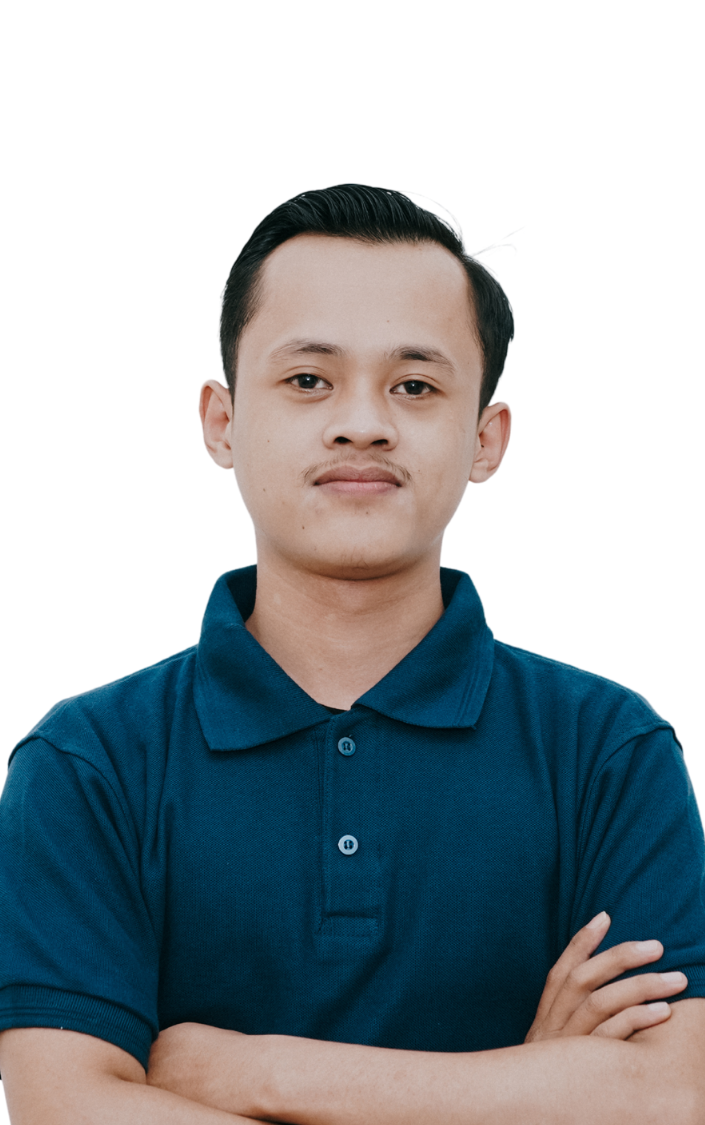
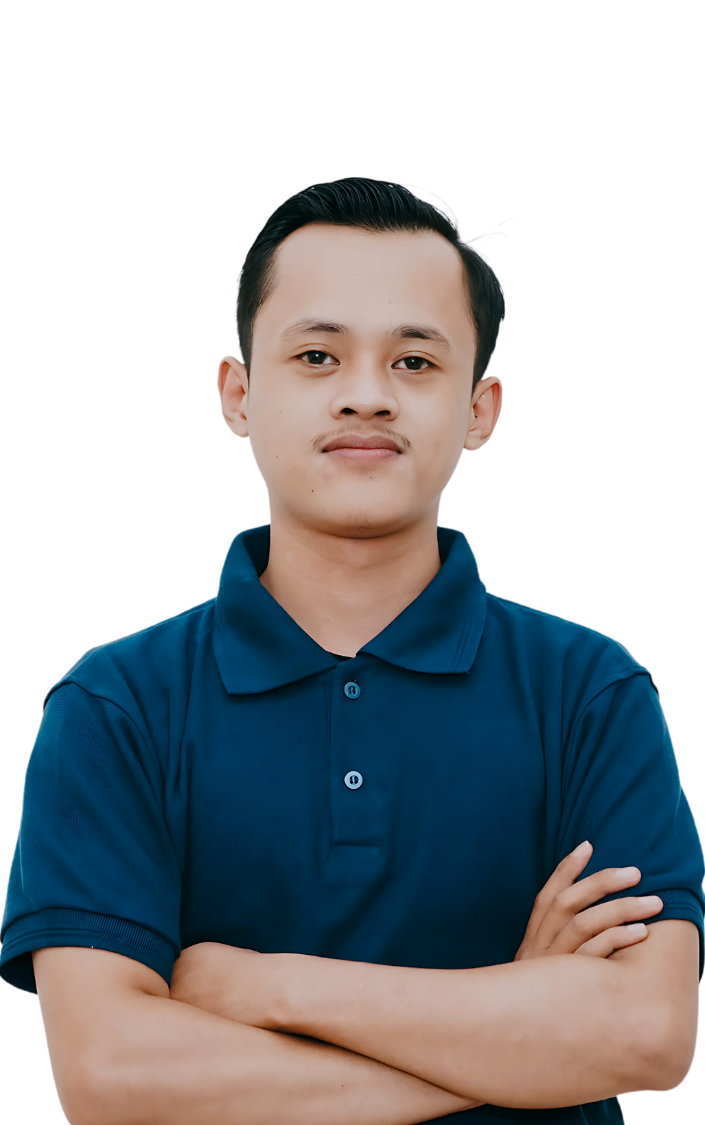
Fix agent photo loading for Difa' Fathir Aditya and add new agent photos
- Fixed getAgentPhotoPath function to handle special characters properly
- Added special handling for Difa' Fathir Aditya photo path
- Added debugging and error handling for photo loading
- Added new agent photos for all agents
- Improved photo loading with proper fallback handling
- Added console logging for debugging photo loading issues

diff --git a/src/components/AgentAnalytics.tsx b/src/components/AgentAnalytics.tsx
@@ -179,6 +179,9 @@ const AgentAnalytics = () => {
   // They are only used for time filtering in the main agent list
   const data = agentAnalyticsData || {};
   const agentMetrics = useAgentStore((state) => state.agentMetrics) as AgentMetric[];
+  
+  // Use agentMetrics as data source (excelAgentData functionality removed)
+  const dataSource = agentMetrics;
   // Unused state - commented out
   // const [excelAgentData, setExcelAgentData] = useState<any[]>([]);
   const [debouncedTrendData, setDebouncedTrendData] = useState<any[]>([]);
@@ -191,6 +194,13 @@ const AgentAnalytics = () => {
   useEffect(() => {
     console.log('Agent Metrics DEBUG:', agentMetrics);
   }, [agentMetrics]);
+
+  // Debug: log agent names to check for inconsistencies
+  useEffect(() => {
+    if (dataSource && dataSource.length > 0) {
+      console.log('Agent names in dataSource:', dataSource.map(a => a.agent));
+    }
+  }, [dataSource]);
 
   // Function to toggle backlog debugging
   const toggleBacklogDebug = () => {
@@ -792,9 +802,6 @@ const AgentAnalytics = () => {
   // Unused variable - commented out
   // const sortedAgentList = [...filteredAgentList].sort((a, b) => (b.ticketCount || 0) - (a.ticketCount || 0));
 
-  // Use agentMetrics as data source (excelAgentData functionality removed)
-  const dataSource = agentMetrics;
-
   // --- Normalisasi & Scoring KPI sesuai formula baru ---
   function normalizePositive(actual: number, target: number) {
     return Math.min((actual / target) * 100, 120);
@@ -882,6 +889,20 @@ const AgentAnalytics = () => {
     if (Math.abs(delta) < 1e-2) return 'flat';
     return delta > 0 ? 'up' : 'down';
   }
+
+  // Helper: normalize agent name for photo lookup
+  function getAgentPhotoPath(agentName: string): string {
+    // Special handling for Difa' Fathir Aditya
+    if (agentName.includes('Difa')) {
+      // Try the exact filename first (with apostrophe)
+      return `/agent-photos/Difa' Fathir Aditya.png`;
+    }
+    
+    // For other agents, use the original name
+    return `/agent-photos/${agentName}.png`;
+  }
+
+
   // Helper: insight text per KPI
   function generateKpiInsight(kpi: string, trend: 'up' | 'down' | 'flat') {
     const messages: Record<string, Record<string, string>> = {
@@ -1130,14 +1151,18 @@ const AgentAnalytics = () => {
                   {/* Agent Photo - akan menggunakan foto yang diupload */}
                   <div className="w-full h-full flex items-center justify-center">
                     <img 
-                      src={`/agent-photos/${agent.agent}.png`} 
+                      src={getAgentPhotoPath(agent.agent)} 
                       alt={agent.agent}
                       className="w-full h-full object-cover object-center"
                       onError={(e) => {
                         // Fallback jika foto tidak ada
                         const target = e.target as HTMLImageElement;
+                        console.warn(`[Photo Error] Failed to load image for agent: "${agent.agent}" at path: ${target.src}`);
                         target.style.display = 'none';
                         target.nextElementSibling?.classList.remove('hidden');
+                      }}
+                      onLoad={() => {
+                        console.log(`[Photo Success] Successfully loaded image for agent: "${agent.agent}"`);
                       }}
                     />
                     {/* Fallback avatar jika foto tidak ada */}
@@ -1275,13 +1300,17 @@ const AgentAnalytics = () => {
                   {/* Agent Photo */}
                   <div className="w-20 h-20 rounded-full bg-gradient-to-br from-white via-blue-100 to-purple-100 flex items-center justify-center relative overflow-hidden shadow-lg">
                                       <img 
-                    src={`/agent-photos/${selectedAgent}.png`} 
+                    src={selectedAgent ? getAgentPhotoPath(selectedAgent) : ''} 
                     alt={selectedAgent}
                     className="w-full h-full object-cover object-center rounded-full"
                     onError={(e) => {
                       const target = e.target as HTMLImageElement;
+                      console.warn(`[Modal Photo Error] Failed to load image for selected agent: "${selectedAgent}" at path: ${target.src}`);
                       target.style.display = 'none';
                       target.nextElementSibling?.classList.remove('hidden');
+                    }}
+                    onLoad={() => {
+                      console.log(`[Modal Photo Success] Successfully loaded image for selected agent: "${selectedAgent}"`);
                     }}
                   />
                     <div className="w-full h-full rounded-full bg-purple-500 flex items-center justify-center text-white text-2xl font-bold hidden">
@@ -1311,9 +1340,9 @@ const AgentAnalytics = () => {
                     <Download className="w-4 h-4" />
                     Export PDF
                   </Button>
-                  <RadixDialog.Close asChild>
+              <RadixDialog.Close asChild>
                     <button className="text-gray-500 hover:text-red-500 text-2xl font-bold focus:outline-none transition-colors duration-150 p-2 rounded-lg hover:bg-gray-100 dark:hover:bg-gray-800" aria-label="Close agent detail">&times;</button>
-                  </RadixDialog.Close>
+              </RadixDialog.Close>
                 </div>
               </div>
             </div>
@@ -1522,7 +1551,7 @@ const AgentAnalytics = () => {
                       <div>
                         <div className="text-lg font-bold text-gray-900 dark:text-gray-100 mb-3">KPI Performance Analysis</div>
                         <div className="grid grid-cols-1 md:grid-cols-2 gap-3">
-                          {Object.keys(kpiTrends).map(kpi => (
+                        {Object.keys(kpiTrends).map(kpi => (
                             <div key={kpi} className="flex items-center gap-3 p-3 bg-gray-50 dark:bg-gray-700 rounded-lg">
                               <Badge variant={kpiTrends[kpi]==='up' ? 'success' : kpiTrends[kpi]==='down' ? 'danger' : 'default'}>
                                 {kpiTrends[kpi] === 'up' ? '↗' : kpiTrends[kpi] === 'down' ? '↘' : '→'}
@@ -1530,12 +1559,12 @@ const AgentAnalytics = () => {
                               <div className="flex-1">
                                 <div className="font-semibold text-gray-900 dark:text-gray-100">{kpiLabels[kpi]}</div>
                                 <div className="text-sm text-gray-600 dark:text-gray-400">{generateKpiInsight(kpi, kpiTrends[kpi])}</div>
-                                {kpi === 'ticket' && agentTicketShare.length > 0 && (
+                            {kpi === 'ticket' && agentTicketShare.length > 0 && (
                                   <div className="text-xs text-gray-500 mt-1">Share: {agentTicketShare.slice(-1)[0]} of total tickets</div>
-                                )}
+                            )}
                               </div>
                             </div>
-                          ))}
+                        ))}
                         </div>
                       </div>
                     </div>
@@ -2074,145 +2103,6 @@ const AgentAnalytics = () => {
                                     <p className="text-xl font-bold text-orange-900 dark:text-orange-100">{slaRate.toFixed(1)}%</p>
                                   </div>
                                 </div>
-                              </CardContent>
-                            </Card>
-                          </div>
-                          
-                          {/* Goal Attainment & Benchmarking */}
-                          <div className="grid grid-cols-1 md:grid-cols-2 gap-6">
-                            {/* Goal Attainment & Gaps */}
-                            <Card>
-                              <CardHeader>
-                                <CardTitle className="text-lg flex items-center gap-2">
-                                  <Target className="w-5 h-5" />
-                                  Goal Attainment & Gaps
-                                </CardTitle>
-                              </CardHeader>
-                              <CardContent>
-                                {(() => {
-                                  // Targets
-                                  const expectedAHTLocal = expectedAHT;
-                                  const targets = {
-                                    aht: { ok: avgAHT <= expectedAHTLocal, gap: Math.max(0, avgAHT - expectedAHTLocal), label: 'AHT', unit: 'min' },
-                                    frt: { ok: true, gap: 0, label: 'FRT', unit: 'min' }, // FRT lifetime optional
-                                    art: { ok: true, gap: 0, label: 'ART', unit: 'min' }, // ART lifetime optional
-                                    sla: { ok: slaRate >= 85, gap: Math.max(0, 85 - slaRate), label: 'SLA', unit: '%' },
-                                    fcr: { ok: fcrRate >= 75, gap: Math.max(0, 75 - fcrRate), label: 'FCR', unit: '%' },
-                                    esc: { ok: escalationRate <= 10, gap: Math.max(0, escalationRate - 10), label: 'Esc', unit: '%' },
-                                    prod: { ok: productivityRatio >= 1, gap: Math.max(0, (1 - productivityRatio) * 50), label: 'Productivity', unit: 'tk/mo' },
-                                  } as const;
-
-                                  const entries = Object.entries(targets);
-                                  const met = entries.filter(([,v]) => v.ok).length;
-                                  const total = entries.length - 2; // exclude frt/art lifetime placeholders
-                                  return (
-                                    <div className="space-y-4">
-                                      <div className="flex items-center justify-between p-3 rounded bg-gray-50 dark:bg-gray-800">
-                                        <span className="text-sm text-gray-600 dark:text-gray-400">Targets Met</span>
-                                        <span className="font-semibold">{met}/{total}</span>
-                                      </div>
-                                      <div className="grid grid-cols-2 gap-3">
-                                        {entries.filter(([k]) => k !== 'frt' && k !== 'art').map(([key, v]) => (
-                                          <div key={key} className={`p-3 rounded border ${v.ok ? 'border-green-200 dark:border-green-900/40 bg-green-50 dark:bg-green-900/20' : 'border-yellow-200 dark:border-yellow-900/40 bg-yellow-50 dark:bg-yellow-900/20'}`}>
-                                            <div className="flex items-center justify-between">
-                                              <span className="text-sm font-medium">{v.label}</span>
-                                              <span className={`text-xs px-2 py-0.5 rounded ${v.ok ? 'bg-green-100 text-green-800 dark:bg-green-900/40 dark:text-green-300' : 'bg-yellow-100 text-yellow-800 dark:bg-yellow-900/40 dark:text-yellow-300'}`}>{v.ok ? 'OK' : 'GAP'}</span>
-                                            </div>
-                                            {!v.ok && (
-                                              <div className="text-xs mt-1 text-gray-600 dark:text-gray-400">Gap: {v.gap.toFixed(1)}{v.unit}</div>
-                                            )}
-                                          </div>
-                                        ))}
-                                      </div>
-                                    </div>
-                                  );
-                                })()}
-                              </CardContent>
-                            </Card>
-
-                            {/* Benchmark vs Team */}
-                            <Card>
-                              <CardHeader>
-                                <CardTitle className="text-lg flex items-center gap-2">
-                                  <BarChart3 className="w-5 h-5" />
-                                  Benchmark vs Team (Percentile)
-                                </CardTitle>
-                              </CardHeader>
-                              <CardContent>
-                                {(() => {
-                                  const ticketsByAgent: Record<string, typeof allTickets> = {};
-                                  (allTickets || []).forEach(t => {
-                                    const a = t.openBy || 'Unknown';
-                                    if (!ticketsByAgent[a]) ticketsByAgent[a] = [] as any;
-                                    (ticketsByAgent[a] as any).push(t);
-                                  });
-
-                                  const metrics: { agent: string; aht: number; sla: number; fcr: number; esc: number; vol: number }[] = [];
-                                  for (const [agent, rows] of Object.entries(ticketsByAgent)) {
-                                    const total = rows.length;
-                                    const ahtVals = rows
-                                      .filter((t: any) => t.openTime && t.closeTime && new Date(t.closeTime) > new Date(t.openTime))
-                                      .map((t: any) => (new Date(t.closeTime).getTime() - new Date(t.openTime).getTime()) / 60000);
-                                    const avgA = ahtVals.length ? ahtVals.reduce((a: number,b: number)=>a+b,0)/ahtVals.length : 0;
-                                    const slaC = rows.filter((t: any) => t.openTime && t.closeTime && ((new Date(t.closeTime).getTime() - new Date(t.openTime).getTime())/60000) <= 1440).length;
-                                    const fcrC = rows.filter((t: any) => !t.handling2 || (t.handling2||'').trim()==='').length;
-                                    const escC = rows.filter((t: any) => [t.closeHandling2,t.closeHandling3,t.closeHandling4,t.closeHandling5].some((h:any)=>h && h.trim()!=='')).length;
-                                    metrics.push({
-                                      agent,
-                                      aht: avgA,
-                                      sla: total? (slaC/total)*100:0,
-                                      fcr: total? (fcrC/total)*100:0,
-                                      esc: total? (escC/total)*100:0,
-                                      vol: total
-                                    });
-                                  }
-
-                                  const pct = (arr: number[], value: number, higherIsBetter: boolean) => {
-                                    const sorted = [...arr].sort((a,b)=>a-b);
-                                    if (higherIsBetter) {
-                                      const rank = sorted.findIndex(v=>v>value);
-                                      const idx = rank === -1 ? sorted.length : rank;
-                                      return (idx/sorted.length)*100;
-                                    } else {
-                                      const rank = sorted.findIndex(v=>v>=value);
-                                      const idx = rank === -1 ? sorted.length : rank;
-                                      return (1 - idx/ sorted.length)*100;
-                                    }
-                                  };
-
-                                  const self = metrics.find(m=>m.agent===selectedAgent);
-                                  if (!self) return <div className="text-sm text-gray-500">No team data.</div>;
-                                  const ahtPct = pct(metrics.map(m=>m.aht), self.aht, false);
-                                  const slaPct = pct(metrics.map(m=>m.sla), self.sla, true);
-                                  const fcrPct = pct(metrics.map(m=>m.fcr), self.fcr, true);
-                                  const escPct = pct(metrics.map(m=>m.esc), self.esc, false);
-                                  const volPct = pct(metrics.map(m=>m.vol), self.vol, true);
-
-                                  const rows = [
-                                    { name: 'AHT (lower is better)', value: `${formatDurationDHM(self.aht)}`, pct: ahtPct },
-                                    { name: 'SLA%', value: `${self.sla.toFixed(1)}%`, pct: slaPct },
-                                    { name: 'FCR%', value: `${self.fcr.toFixed(1)}%`, pct: fcrPct },
-                                    { name: 'Escalation%', value: `${self.esc.toFixed(1)}%`, pct: escPct },
-                                    { name: 'Volume', value: `${self.vol}`, pct: volPct },
-                                  ];
-
-                                  return (
-                                    <div className="space-y-3">
-                                      {rows.map((r,i)=> (
-                                        <div key={i} className="p-3 rounded bg-gray-50 dark:bg-gray-800">
-                                          <div className="flex items-center justify-between mb-1">
-                                            <span className="text-sm text-gray-600 dark:text-gray-400">{r.name}</span>
-                                            <span className="font-semibold">{r.value}</span>
-                                          </div>
-                                          <div className="w-full h-2 bg-gray-200 dark:bg-gray-700 rounded overflow-hidden">
-                                            <div className="h-2 bg-blue-500" style={{width: `${Math.max(0, Math.min(100, r.pct))}%`}} />
-                                          </div>
-                                          <div className="text-xs text-right text-gray-500 mt-1">P{r.pct.toFixed(0)}</div>
-                                        </div>
-                                      ))}
-                                    </div>
-                                  );
-                                })()}
                               </CardContent>
                             </Card>
                           </div>
@@ -3062,18 +2952,18 @@ const AgentAnalytics = () => {
                                            metric.status === 'warning' ? '⚠ Needs Attention' : 'ℹ Info'}
                                         </span>
                                       </td>
-                                    </tr>
-                                  ));
-                                })()}
-                              </tbody>
-                            </table>
-                          </div>
+                            </tr>
+                          ));
+                        })()}
+                      </tbody>
+                    </table>
+                  </div>
                         </CardContent>
                       </Card>
                     </div>
                   </TabsContent>
                 </Tabs>
-              </div>
+    </div>
               </>
             )}
           </RadixDialog.Content>
